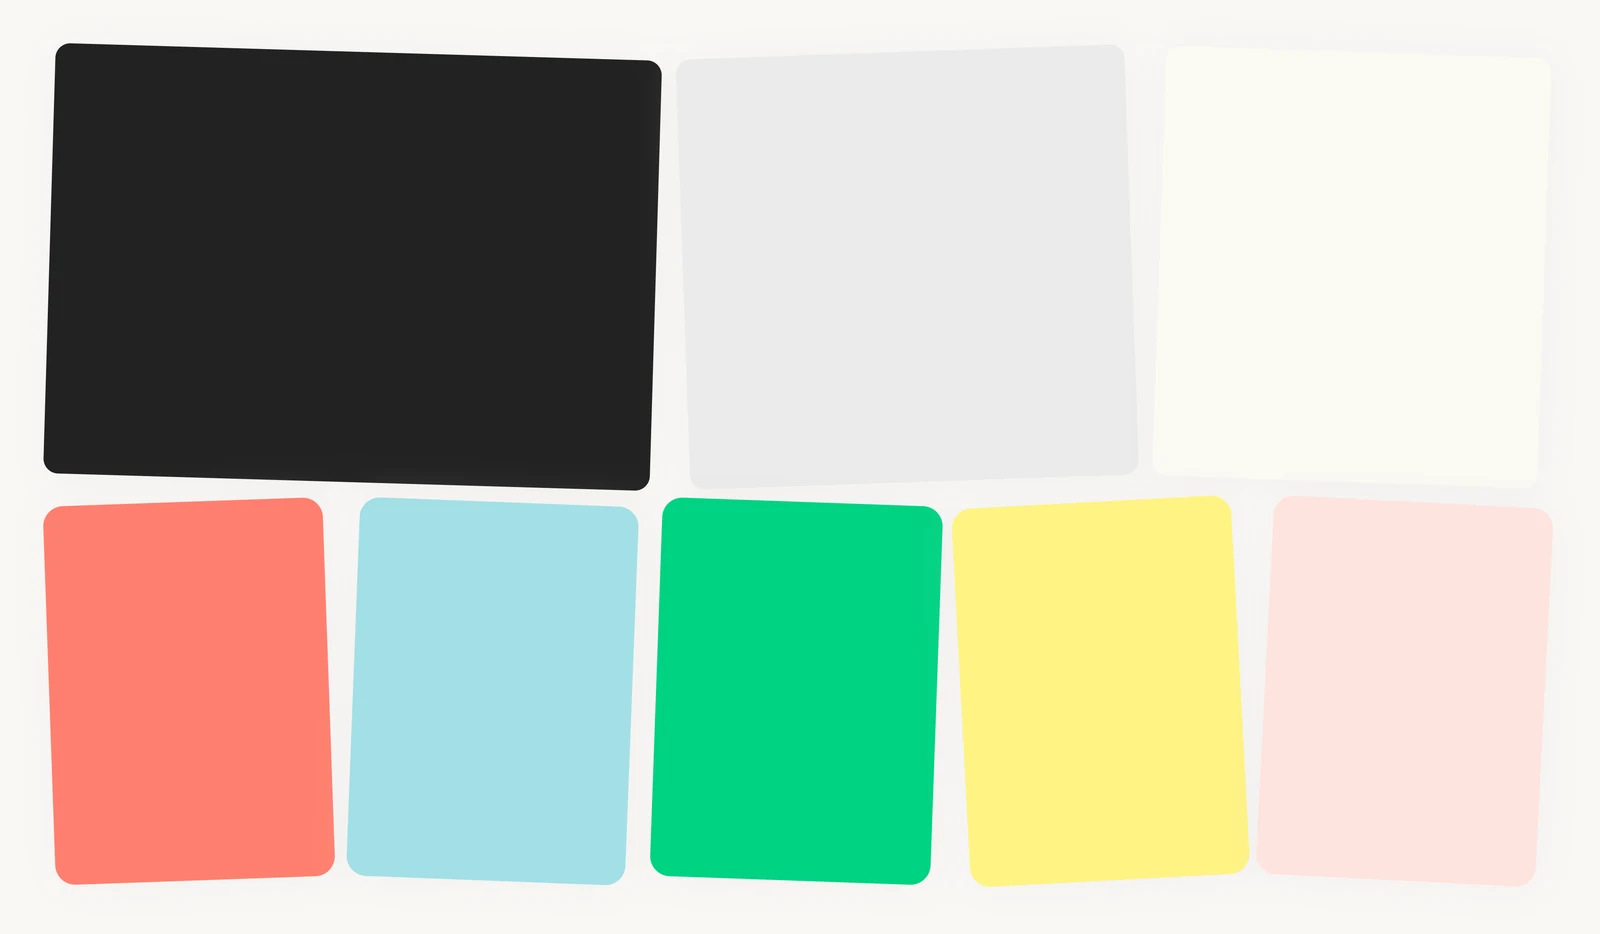
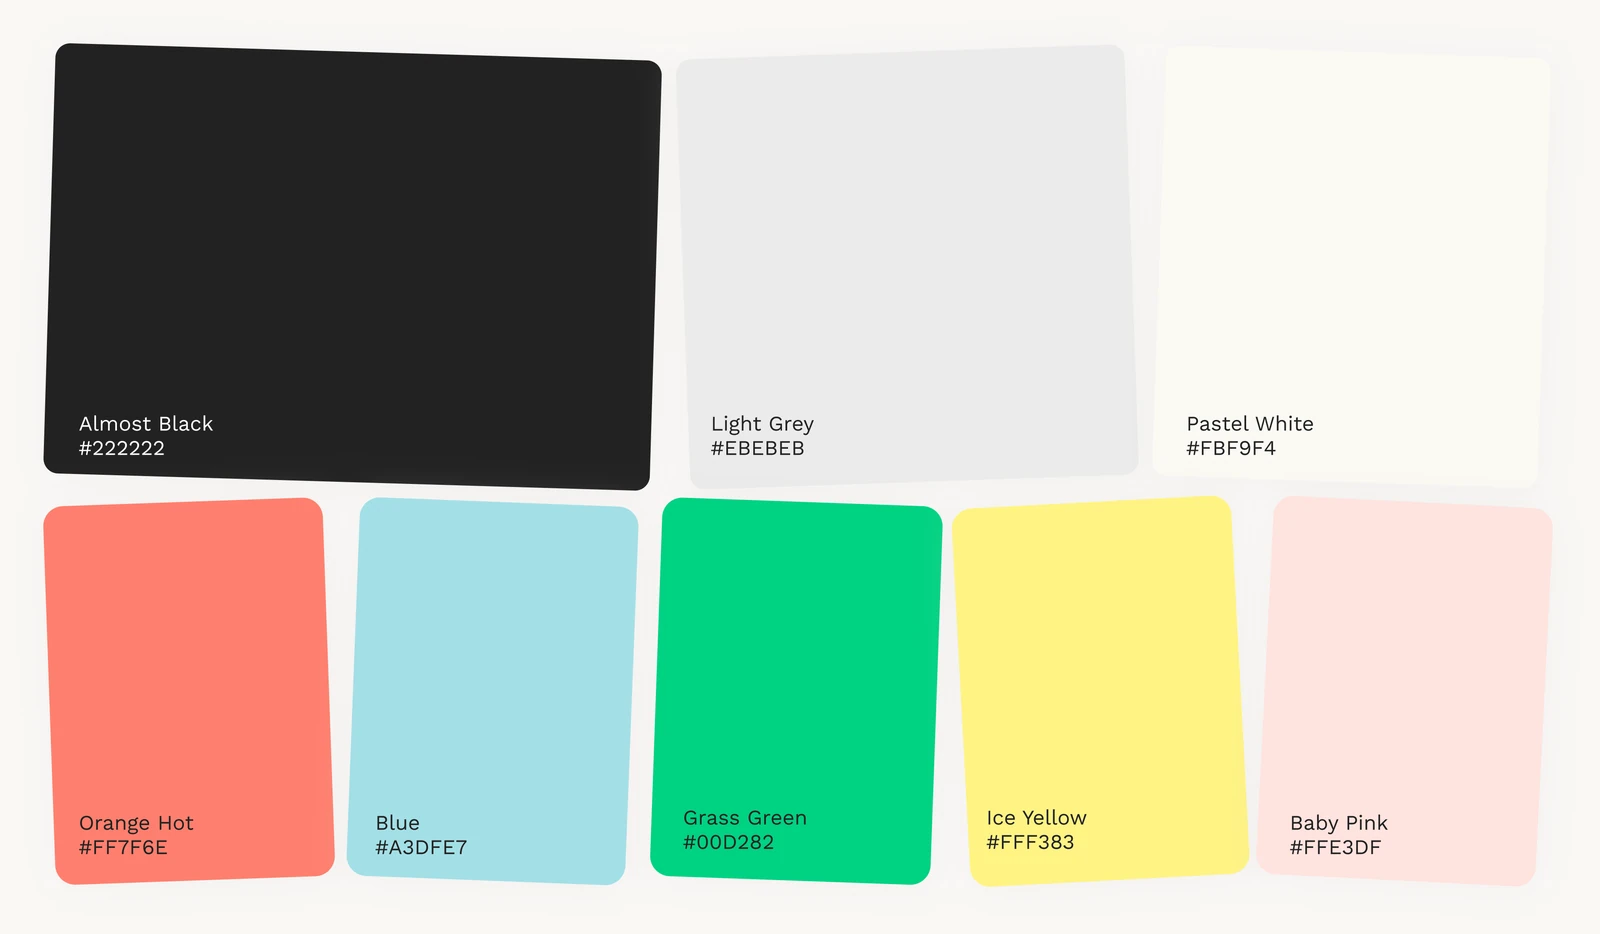
Swap Curiosoil hero, palette with codes, reflow Redo mockups
Curiosoil hero now uses the MacBook-on-table shot, cropped from the
portrait original to the hero's 16:7 frame and centred on the laptop.

Q App style guide swapped for the palette version that carries hex
codes, so the swatches are usable rather than decorative.

Redo: branding pair and the mockup trio were cramped side by side.
Branding is now two full-width images, and the mockups run as one
full-width environment shot with the storefront and social posts
paired beneath it.

Claude-Session: https://claude.ai/code/session_01FVE6eWtMHtA6DdMmftNqfi

diff --git a/work-redo.html b/work-redo.html
@@ -422,13 +422,12 @@
       </div>
     </div>
 
-    <div class="case-img-duo">
-      <div class="case-img-full">
-        <img src="img/redo/branding-1.webp" alt="Re·do branding" />
-      </div>
-      <div class="case-img-full">
-        <img src="img/redo/branding-2.webp" alt="Re·do branding detail" />
-      </div>
+    <div class="case-img-full">
+      <img src="img/redo/branding-1.webp" alt="Re·do branding" />
+    </div>
+
+    <div class="case-img-full">
+      <img src="img/redo/branding-2.webp" alt="Re·do branding detail" />
     </div>
 
     <!-- ════ 04 — UI Design ════ -->
@@ -447,15 +446,16 @@
       <img src="img/redo/mockups.webp" alt="Re·do UI screens" />
     </div>
 
-    <div class="case-img-trio">
+    <div class="case-img-full">
+      <img src="img/redo/mockups-1.webp" alt="Re·do brand environment" />
+    </div>
+
+    <div class="case-img-duo">
       <div class="case-img-full">
-        <img src="img/redo/mockups-1.webp" alt="Re·do screen detail" />
+        <img src="img/redo/mockups-2.webp" alt="Re·do storefront" />
       </div>
       <div class="case-img-full">
-        <img src="img/redo/mockups-2.webp" alt="Re·do screen detail" />
-      </div>
-      <div class="case-img-full">
-        <img src="img/redo/mockups-3.webp" alt="Re·do screen detail" />
+        <img src="img/redo/mockups-3.webp" alt="Re·do social posts" />
       </div>
     </div>
 

diff --git a/work-qapp.html b/work-qapp.html
@@ -465,7 +465,7 @@
     </div>
 
     <div class="case-img-full no-bg">
-      <img src="img/qapp/style.webp?v=2" alt="Style guide" />
+      <img src="img/qapp/style.webp?v=3" alt="Style guide" />
     </div>
     <div class="case-img-full no-bg">
       <img src="img/qapp/moodboard.webp" alt="Moodboard" />

diff --git a/work-curiosoil.html b/work-curiosoil.html
@@ -394,7 +394,7 @@
     </div>
 
     <div class="case-hero-img">
-      <img src="img/curiosoil/3.webp" alt="Curiosoil hero" />
+      <img src="img/curiosoil/3.webp?v=2" alt="Curiosoil hero" />
     </div>
 
     <!-- 01 Overview -->
